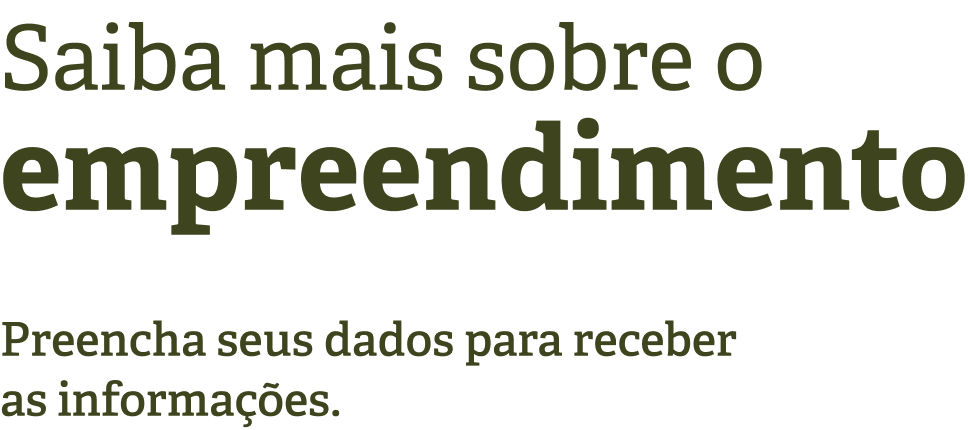
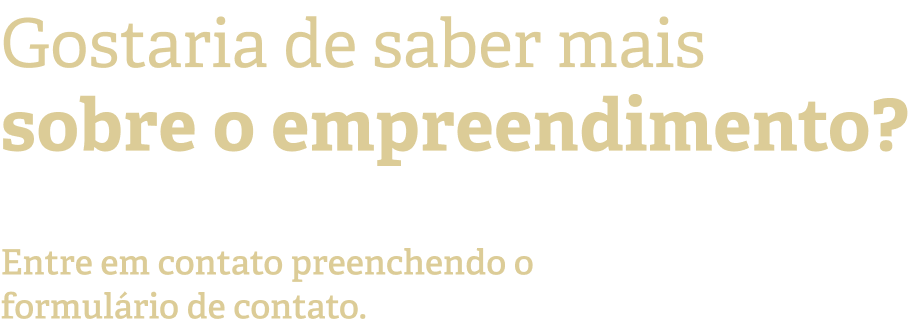
att

diff --git a/modulos/footer/index.php b/modulos/footer/index.php
@@ -1,19 +1,22 @@
 <style>
-    #division{
-        height: 8px !important;
-        width: 100% !important;
-        background-image: linear-gradient(to right, #DCCC97, #6A9033, #497B55) !important;
-    }
-
     #container-logo-footer img{
         width: 70%;
     }
+
+    #wpp-footer{
+        background: #6A9033;
+        color: #DCCC97;
+        padding: 10px 35px;
+        border-radius: 5px;
+        text-decoration: none;
+        font-weight: normal;
+    }
+
+    #logo-footer-hover:hover{
+        cursor: pointer;
+        opacity: 1 !important;
+    }
 </style>
-
-
-<!-- DIVISION -->
-<div id="division"></div>
-<!-- DIVISION -->
 
 
 <!-- FOOTER -->
@@ -21,12 +24,12 @@
     <div class="container py-5 mb-5">
         <div class="row">
             <div class="d-flex justify-content-center justify-content-lg-start align-items-center mb-5 pb-3 pb-lg-0 mb-lg-0 col-12 col-lg-5" id="container-logo-footer">
-                <img src='<?= $base_url ?>assets/imagens/site/footer-desktop.png' class="d-none d-lg-block">
+                <a href="<?= $base_url; ?>" class="d-none d-lg-block" id="logo-footer-hover"><img src='<?= $base_url ?>assets/imagens/site/footer-desktop.png'></a>
                 <img src='<?= $base_url ?>assets/imagens/site/footer-mobile.png' class="d-block d-lg-none">
             </div>
             <div class="col-12 col-lg-4 d-flex flex-column align-items-center align-items-lg-start mb-5 pb-3 -b-lg-0 mb-lg-0">
                 <a href="https://wa.me/5554999013231" target="_blank" class="mb-3 fw-semibold text-5"><i class="me-2 fas fa-phone"></i> +55 54 9 9901-3231</a>
-                <a href="mailto:contato@construtoravariani.com.br" target="_blank" class="mb-3 fw-semibold text-5"><i class="me-2 fas fa-envelope"></i> contato@construtoravariani.com.br</a>
+                <a href="mailto:contato@rlcassic.com.br" target="_blank" class="mb-3 fw-semibold text-5"><i class="me-2 fas fa-envelope"></i> contato@rlcassic.com.br</a>
                 <div class="d-flex justify-content-center justify-content-lg-start align-items-center">
                     <a href="https://www.instagram.com/varianiconstrutora/" target="_blank" class="text-5 fs-3 me-4"><i class="fab fa-instagram"></i></a>
                     <a href="https://www.facebook.com/construtoravariani/" target="_blank" class="text-5 fs-3"><i class="fab fa-facebook"></i></a>
@@ -35,6 +38,7 @@
             <div class="col-12 col-lg-3 d-flex flex-column align-items-center align-items-lg-start">
                 <h6 class="mb-4 mb-lg-3 text-5 fw-semibold">Rua Eduardo de Brito, Nº 407, Passo Fundo/RS</h6>
                 <a href="https://maps.app.goo.gl/2XCLUY2pLbxbs26K8" target="_blank" id="ver-no-mapa" class="fw-semibold">Ver no mapa</a>
+                <a href="https://api.whatsapp.com/send/?phone=5554999013231&text&type=phone_number&app_absent=0" target="_blank" id="wpp-footer" class="fw-semibold mt-5"><i class="me-2 fab fa-whatsapp"></i> Saber mais</a>
             </div>
         </div>
     </div>

diff --git a/modulos/formulario/index.php b/modulos/formulario/index.php
@@ -9,16 +9,17 @@
     .form-input{
         background-color: transparent;
         border: none;
-        border-bottom: 2px solid #3D441E;
+        border-bottom: 2px solid #DCCC97;
         padding: 10px 3px !important;
+        color: #DCCC97 !important;
     }
     .form-input::placeholder{
-        color: #3D441E;
+        color: #DCCC97 !important;
         font-weight: bold;
     }
     #button-form{
-        background-color: #3D441E;
-        color: #DCCC97;
+        background-color: #DCCC97;
+        color: #3D441E;
         border: none;
         padding: 10px 20px;
         font-size: 16px;
@@ -29,8 +30,8 @@
     }
     #button-form:hover{
         background-color: transparent;
-        color: #3D441E;
-        border: 1px solid #3D441E;
+        color: #DCCC97;
+        border: 1px solid #DCCC97;
         transition: .5s;
     }
     .form-input:focus {
@@ -42,10 +43,20 @@
             width: 90%;
         }
     }
+
+    #division{
+        height: 8px !important;
+        width: 100% !important;
+        background-image: linear-gradient(to right, #DCCC97, #6A9033, #497B55) !important;
+    }
 </style>
 
+<!-- DIVISION -->
+<div id="division"></div>
+<!-- DIVISION -->
 
-<section id="formulario" class="bg-5 py-5">
+
+<section id="formulario" class="bg-1 py-5" style="border-bottom: 1px solid #DCCC97;">
     <div class="container mx-auto row py-3">
         <div class="col-12 col-lg-6 mb-5 mb-lg-0">
             <div class="container-content-formulario"><img src='<?= $base_url ?>assets/imagens/site/content-contato.png'></div>

diff --git a/modulos/empreendimento/index.php b/modulos/empreendimento/index.php
@@ -1,0 +1,54 @@
+<style>
+    #empreendimento-img{
+        width: 60% !important;
+    }
+
+    #container-empreendimento{
+        width: 80%;
+    }
+
+    #wpp-empree{
+        background: #6A9033;
+        color: #DCCC97;
+        padding: 14px 60px !important;
+        border-radius: 5px;
+        text-decoration: none;
+        font-weight: normal;
+        font-size: 18px;
+    }
+
+    @media(min-width:1500px){
+        #wpp-empree{
+            padding: 18px 85px !important;
+            font-size: 27px;
+        }
+    }
+
+    @media(max-width:992px){
+        #empreendimento-img{
+            width: 90% !important;
+        }
+
+        #container-empreendimento{
+            width: 90%;
+        }
+
+        #wpp-empree{
+            padding: 13px 55px !important;
+            font-size: 18px;
+        }
+    }
+</style>
+
+
+<section class="bg-5 py-5">
+    <div id="container-empreendimento" class="py-5 mx-auto row">
+        <div class="col-12 col-lg-8">
+            <img id="empreendimento-img" src='<?= $base_url ?>assets/imagens/site/empreendimento.png'>
+        </div>
+
+        <div class="mt-5 mt-lg-0 col-12 col-lg-4 d-flex align-items-center justify-content-start justify-content-lg-end">
+            <a href="https://api.whatsapp.com/send/?phone=5554999013231&text&type=phone_number&app_absent=0" target="_blank" id="wpp-empree" class="fw-semibold"><i class="me-2 fab fa-whatsapp"></i> Falar agora!</a>
+        </div>
+    </div>
+</section>

diff --git a/modulos/detalhes/index.php b/modulos/detalhes/index.php
@@ -68,6 +68,15 @@
             font-size: 14px;
         }
     }
+
+    #wpp-detalhes{
+        background: #6A9033;
+        color: #DCCC97;
+        padding: 10px 35px;
+        border-radius: 5px;
+        text-decoration: none;
+        font-weight: normal;
+    }
 </style>
 
 
@@ -120,7 +129,9 @@
                 <p class="op-detalhes text-1 mb-4 fw-semibold">Hall de entrada decorado.</p>
                 <p class="op-detalhes text-1 mb-4 fw-semibold">Amplas esquadrias.</p>
                 <p class="op-detalhes text-1 mb-4 fw-semibold">Excelente ventilação e iluminação natural dos ambientes.</p>
-                <p class="op-detalhes text-1 mb-4 fw-semibold">Ampla área de lazer</p>
+                <p class="op-detalhes text-1 mb-5 fw-semibold">Ampla área de lazer</p>
+
+                <a href="https://api.whatsapp.com/send/?phone=5554999013231&text&type=phone_number&app_absent=0" target="_blank" id="wpp-detalhes" class="fw-semibold mt-5"><i class="me-2 fab fa-whatsapp"></i> Saber mais</a>
             </div>
         </div>
     </div>

diff --git a/index.php b/index.php
@@ -24,9 +24,9 @@
     <?php include_once  __DIR__ .'/modulos/banner-inicial/index.php'; ?>
     <!-- BANNER INÍCIAL -->
 
-    <!-- FORMULÁRIO -->
-    <?php include_once  __DIR__ .'/modulos/formulario/index.php'; ?>
-    <!-- FORMULÁRIO -->
+    <!-- EMPREENDIMENTO -->
+    <?php include_once  __DIR__ .'/modulos/empreendimento/index.php'; ?>
+    <!-- EMPREENDIMENTO -->
 
     <!-- BANNER 2 -->
     <?php include_once  __DIR__ .'/modulos/banner-bem-vindo/index.php'; ?>
@@ -51,6 +51,10 @@
     <!-- MAPA -->
     <?php include_once  __DIR__ .'/modulos/mapa/index.php'; ?>
     <!-- MAPA -->
+
+    <!-- FORMULÁRIO -->
+    <?php include_once  __DIR__ .'/modulos/formulario/index.php'; ?>
+    <!-- FORMULÁRIO -->
 
     <!-- FOOTER -->
     <?php include_once  __DIR__ .'/modulos/footer/index.php'; ?>
